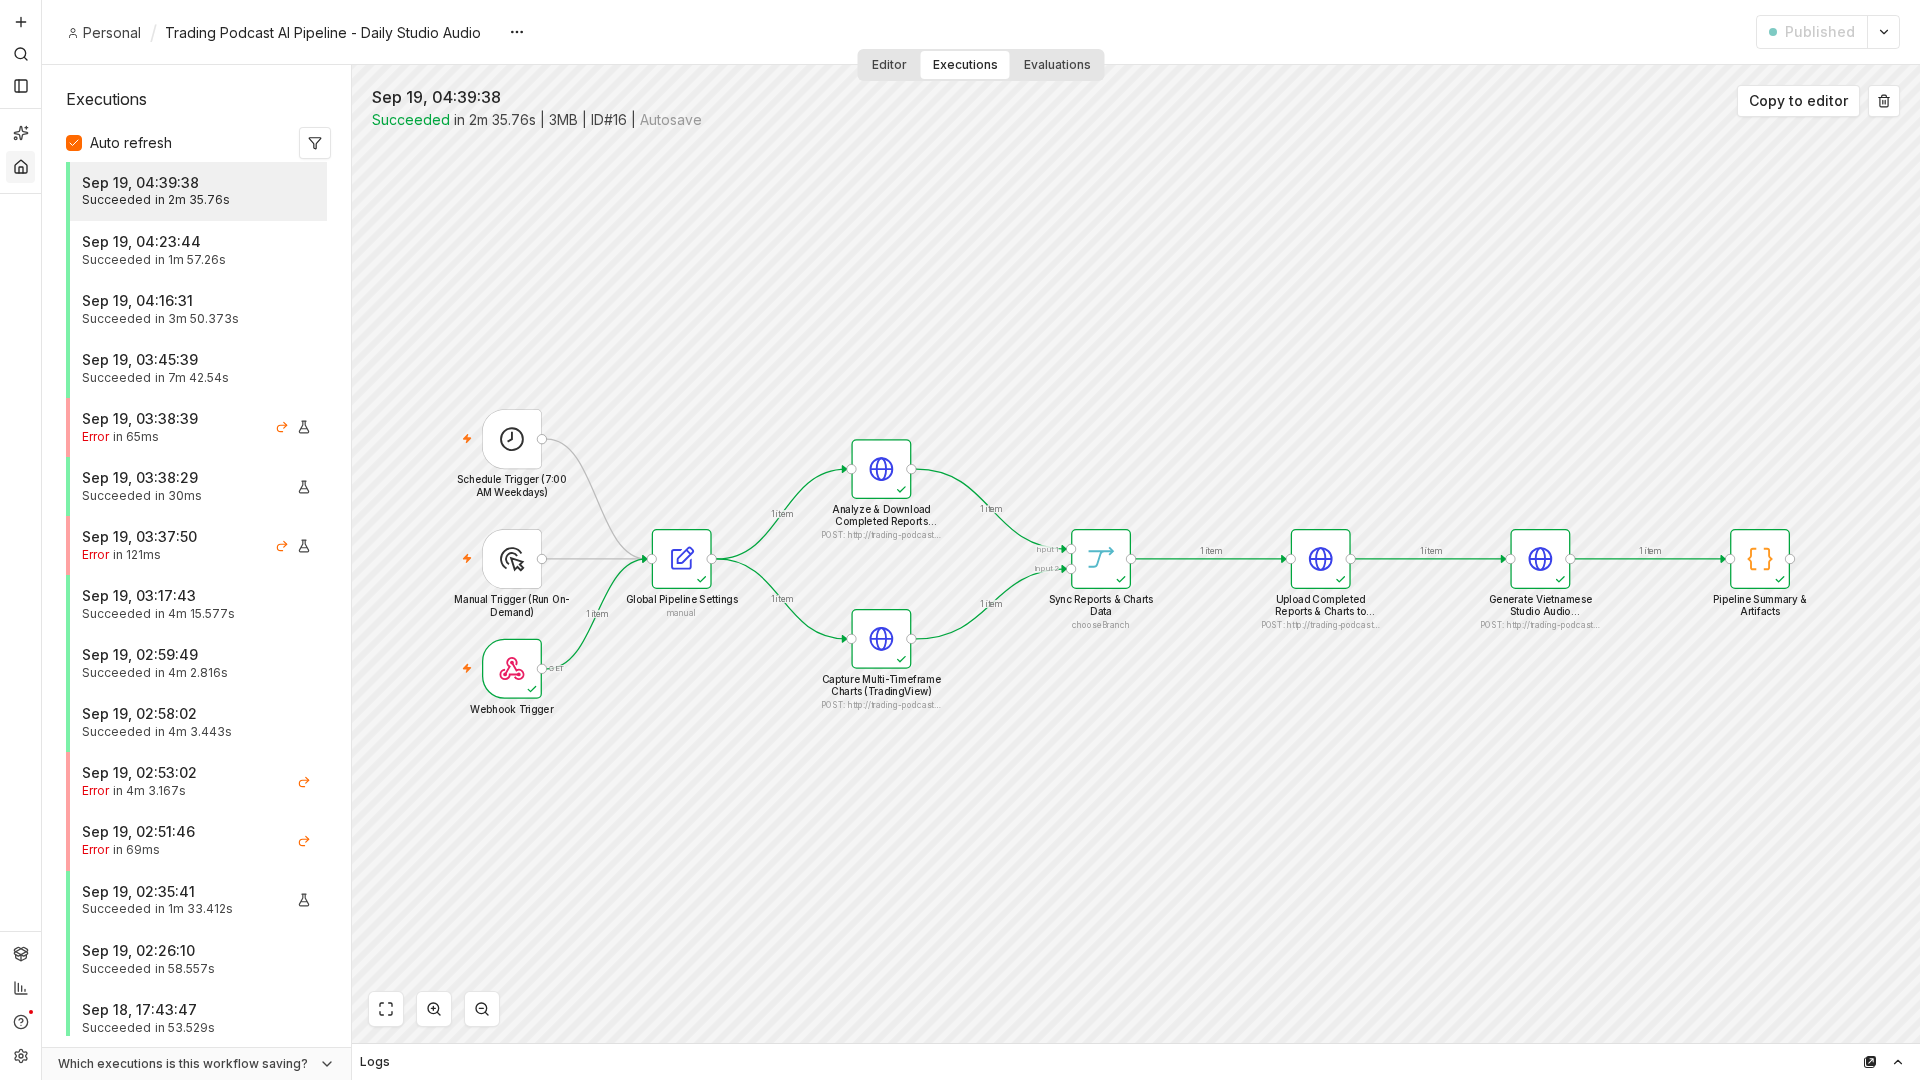
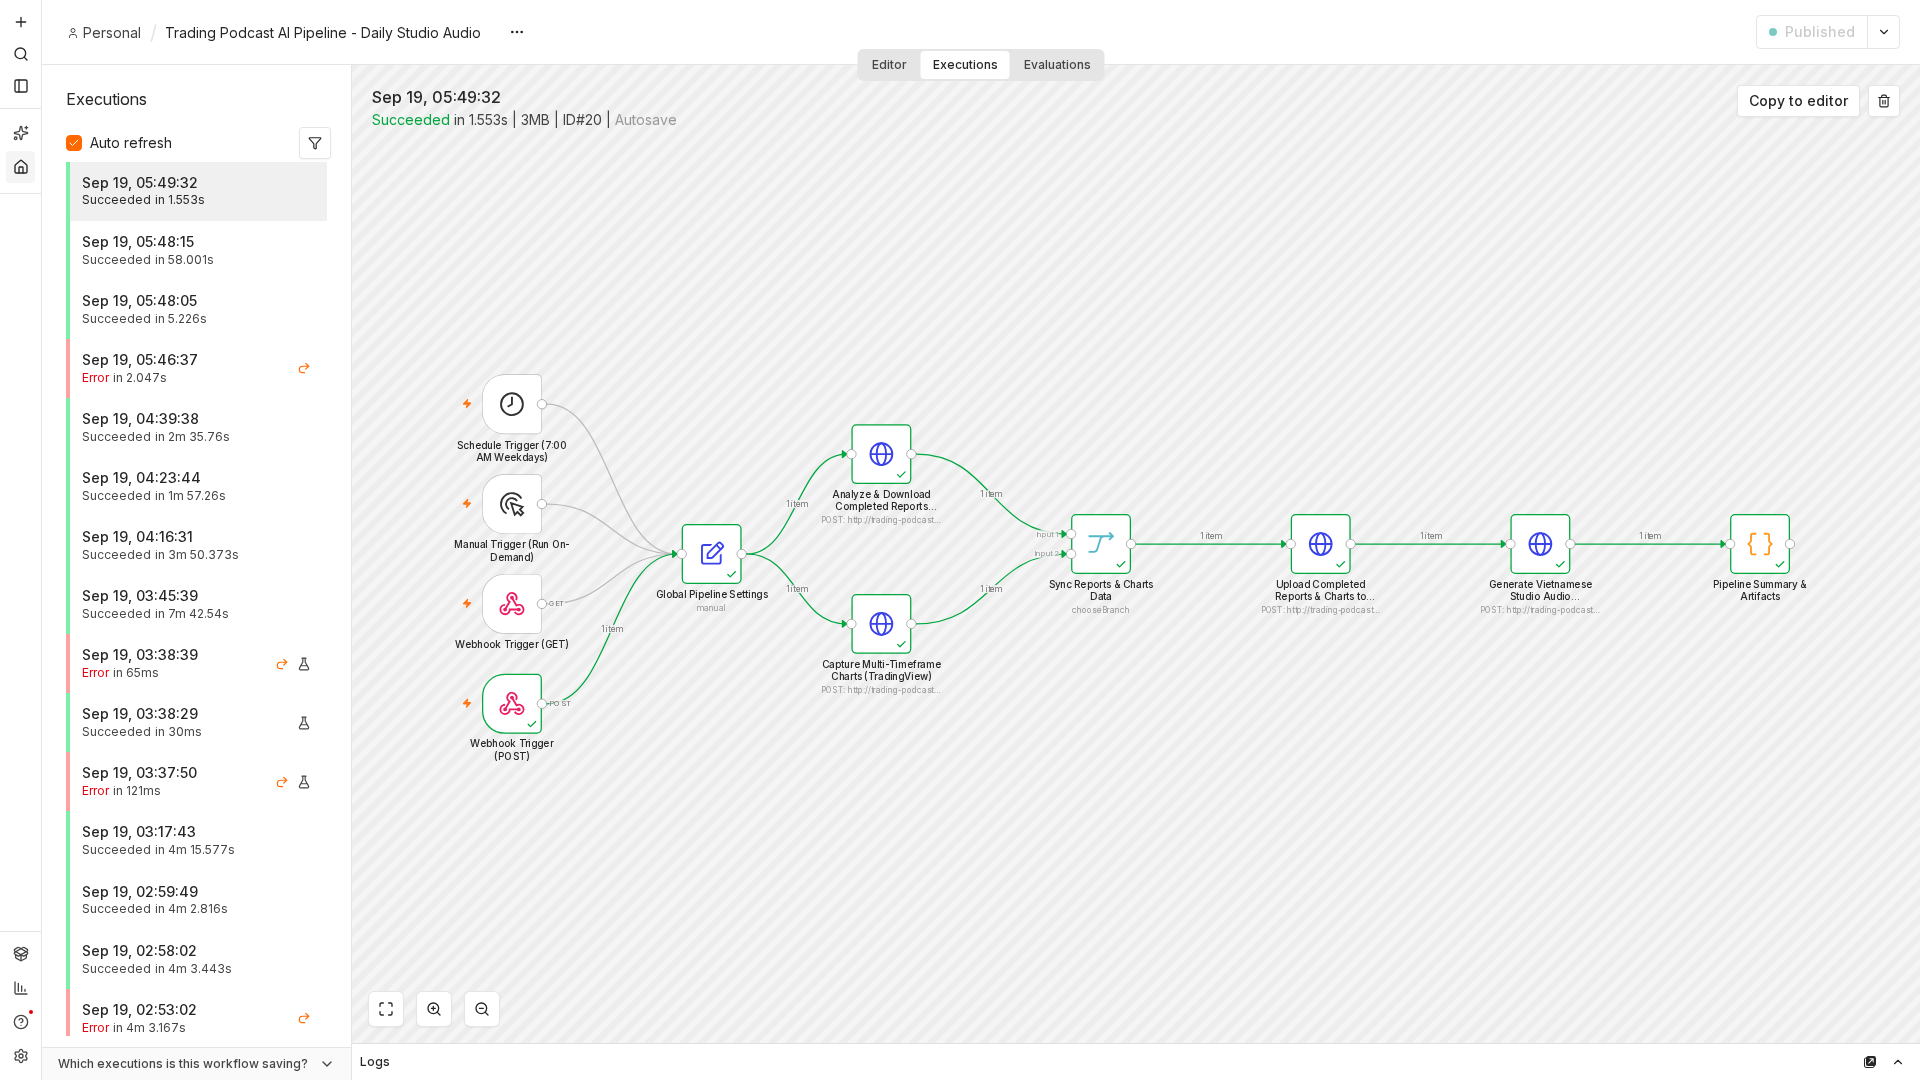
feat(n8n): support remote webhook parameters for force_reanalyze and force_recapture
- Add dual Webhook Triggers (GET & POST) supporting query strings and JSON bodies
- Dynamically parse force_reanalyze and force_recapture_charts with safe default false
- Support parameter aliases (force_analysis, force_capture, reanalyze, recapture)
- Make NotebookLM client resilient against expired Google session cookies
- Update workflow canvas and execution verification screenshots
- Document remote curl webhook triggers and parameters in README.md

diff --git a/n8n/build_workflow.py b/n8n/build_workflow.py
@@ -80,7 +80,7 @@ workflow = {
             "name": "Schedule Trigger (7:00 AM Weekdays)",
             "type": "n8n-nodes-base.scheduleTrigger",
             "typeVersion": 1.2,
-            "position": [200, 240]
+            "position": [200, 200]
         },
         {
             "parameters": {},
@@ -88,7 +88,7 @@ workflow = {
             "name": "Manual Trigger (Run On-Demand)",
             "type": "n8n-nodes-base.manualTrigger",
             "typeVersion": 1,
-            "position": [200, 420]
+            "position": [200, 360]
         },
         {
             "parameters": {
@@ -97,12 +97,26 @@ workflow = {
                 "responseMode": "lastNode",
                 "options": {}
             },
-            "id": "webhook-trigger-1",
-            "name": "Webhook Trigger",
+            "id": "webhook-trigger-get",
+            "name": "Webhook Trigger (GET)",
             "type": "n8n-nodes-base.webhook",
             "typeVersion": 2,
-            "position": [200, 600],
+            "position": [200, 520],
             "webhookId": "run-trading-podcast"
+        },
+        {
+            "parameters": {
+                "httpMethod": "POST",
+                "path": "run-trading-podcast",
+                "responseMode": "lastNode",
+                "options": {}
+            },
+            "id": "webhook-trigger-post",
+            "name": "Webhook Trigger (POST)",
+            "type": "n8n-nodes-base.webhook",
+            "typeVersion": 2,
+            "position": [200, 680],
+            "webhookId": "run-trading-podcast-post"
         },
         {
             "parameters": {
@@ -111,67 +125,67 @@ workflow = {
                         {
                             "id": "setting-force-reanalyze",
                             "name": "force_reanalyze",
-                            "value": False,
+                            "value": "={{ [ $json?.body?.force_reanalyze, $json?.body?.force_analysis, $json?.body?.forceReanalyze, $json?.body?.reanalyze, $json?.query?.force_reanalyze, $json?.query?.force_analysis, $json?.query?.forceReanalyze, $json?.query?.reanalyze ].some(v => v === true || v === 'true' || v === 1 || v === '1') }}",
                             "type": "boolean"
                         },
                         {
                             "id": "setting-force-recapture",
                             "name": "force_recapture_charts",
-                            "value": False,
+                            "value": "={{ [ $json?.body?.force_recapture_charts, $json?.body?.force_recapture, $json?.body?.force_capture, $json?.body?.forceRecapture, $json?.body?.forceCapture, $json?.body?.recapture, $json?.query?.force_recapture_charts, $json?.query?.force_recapture, $json?.query?.force_capture, $json?.query?.forceRecapture, $json?.query?.forceCapture, $json?.query?.recapture ].some(v => v === true || v === 'true' || v === 1 || v === '1') }}",
                             "type": "boolean"
                         },
                         {
                             "id": "setting-provider",
                             "name": "llm_provider",
-                            "value": "openai_compatible",
+                            "value": "={{ $json?.body?.llm_provider || $json?.query?.llm_provider || 'openai_compatible' }}",
                             "type": "string"
                         },
                         {
                             "id": "setting-deep-think",
                             "name": "deep_think_llm",
-                            "value": "ag/gemini-3.8-flash-high",
+                            "value": "={{ $json?.body?.deep_think_llm || $json?.query?.deep_think_llm || 'ag/gemini-3.8-flash-high' }}",
                             "type": "string"
                         },
                         {
                             "id": "setting-quick-think",
                             "name": "quick_think_llm",
-                            "value": "ag/gemini-3.8-flash-high",
+                            "value": "={{ $json?.body?.quick_think_llm || $json?.query?.quick_think_llm || 'ag/gemini-3.8-flash-high' }}",
                             "type": "string"
                         },
                         {
                             "id": "setting-debate-rounds",
                             "name": "max_debate_rounds",
-                            "value": 3,
+                            "value": "={{ $json?.body?.max_debate_rounds ? Number($json.body.max_debate_rounds) : ($json?.query?.max_debate_rounds ? Number($json.query.max_debate_rounds) : 3) }}",
                             "type": "number"
                         },
                         {
                             "id": "setting-risk-rounds",
                             "name": "max_risk_discuss_rounds",
-                            "value": 3,
+                            "value": "={{ $json?.body?.max_risk_discuss_rounds ? Number($json.body.max_risk_discuss_rounds) : ($json?.query?.max_risk_discuss_rounds ? Number($json.query.max_risk_discuss_rounds) : 3) }}",
                             "type": "number"
                         },
                         {
                             "id": "setting-language",
                             "name": "output_language",
-                            "value": "Vietnamese",
+                            "value": "={{ $json?.body?.output_language || $json?.query?.output_language || 'Vietnamese' }}",
                             "type": "string"
                         },
                         {
                             "id": "setting-tickers",
                             "name": "tickers",
-                            "value": '={{ ["XAUUSD", "SPY", "BTC-USD", "XAGUSD", "^TNX", "DX-Y.NYB"] }}',
+                            "value": '={{ $json?.body?.tickers || ($json?.query?.tickers ? (typeof $json.query.tickers === "string" ? $json.query.tickers.split(",").map(s => s.trim()) : $json.query.tickers) : ["XAUUSD", "SPY", "BTC-USD", "XAGUSD", "^TNX", "DX-Y.NYB"]) }}',
                             "type": "array"
                         },
                         {
                             "id": "setting-chart-symbols",
                             "name": "chart_symbols",
-                            "value": '={{ ["XAUUSD", "XAGUSD"] }}',
+                            "value": '={{ $json?.body?.chart_symbols || ($json?.query?.chart_symbols ? (typeof $json.query.chart_symbols === "string" ? $json.query.chart_symbols.split(",").map(s => s.trim()) : $json.query.chart_symbols) : ["XAUUSD", "XAGUSD"]) }}',
                             "type": "array"
                         },
                         {
                             "id": "setting-chart-intervals",
                             "name": "chart_intervals",
-                            "value": '={{ ["5", "15", "60", "240", "D", "W"] }}',
+                            "value": '={{ $json?.body?.chart_intervals || ($json?.query?.chart_intervals ? (typeof $json.query.chart_intervals === "string" ? $json.query.chart_intervals.split(",").map(s => s.trim()) : $json.query.chart_intervals) : ["5", "15", "60", "240", "D", "W"]) }}',
                             "type": "array"
                         },
                         {
@@ -188,7 +202,7 @@ workflow = {
             "name": "Global Pipeline Settings",
             "type": "n8n-nodes-base.set",
             "typeVersion": 3.4,
-            "position": [480, 420]
+            "position": [520, 440]
         },
         {
             "parameters": {
@@ -304,7 +318,18 @@ workflow = {
                 ]
             ]
         },
-        "Webhook Trigger": {
+        "Webhook Trigger (GET)": {
+            "main": [
+                [
+                    {
+                        "node": "Global Pipeline Settings",
+                        "type": "main",
+                        "index": 0
+                    }
+                ]
+            ]
+        },
+        "Webhook Trigger (POST)": {
             "main": [
                 [
                     {

diff --git a/bridge/notebooklm_client.py b/bridge/notebooklm_client.py
@@ -98,16 +98,47 @@ class NotebookLMClient:
                 ["notebooklm", "create", title, "--json"],
                 capture_output=True,
                 text=True,
-                check=True,
+                check=False,
             )
-            create_data = json.loads(create_res.stdout)
+            if create_res.returncode != 0:
+                err_msg = (create_res.stderr or create_res.stdout or "").strip()
+                logger.warning(f"NotebookLM create failed (exit {create_res.returncode}): {err_msg}")
+                return {
+                    "status": "auth_expired",
+                    "notebook_id": "auth_required",
+                    "notebook_title": title,
+                    "notebook_url": "https://notebooklm.google.com",
+                    "sources_count": 0,
+                    "report_sources_count": len(report_md_paths),
+                    "chart_sources_count": len(chart_image_paths),
+                    "sources": [],
+                    "message": "Google NotebookLM session expired or invalid. Please update storage_state.json with fresh cookies.",
+                    "error_detail": err_msg,
+                }
+            try:
+                create_data = json.loads(create_res.stdout) if create_res.stdout else {}
+            except Exception as e:
+                logger.warning(f"Failed parsing create json: {e}")
+                create_data = {}
+
             target_nid = (
                 create_data.get("notebook", {}).get("id")
                 or create_data.get("id")
                 or create_data.get("notebook_id")
             )
             if not target_nid:
-                raise RuntimeError(f"Failed to extract notebook ID from: {create_res.stdout}")
+                logger.warning(f"Could not extract notebook ID from: {create_res.stdout}")
+                return {
+                    "status": "auth_expired",
+                    "notebook_id": "auth_required",
+                    "notebook_title": title,
+                    "notebook_url": "https://notebooklm.google.com",
+                    "sources_count": 0,
+                    "report_sources_count": len(report_md_paths),
+                    "chart_sources_count": len(chart_image_paths),
+                    "sources": [],
+                    "message": "Failed to create notebook on NotebookLM. Please check storage_state.json",
+                }
             logger.info(f"Successfully created Notebook ID: {target_nid}")
 
         uploaded_sources = []
@@ -202,10 +233,12 @@ class NotebookLMClient:
         final_audio_path = out_dir / f"trading_podcast_{date_str}.mp3"
 
         has_auth = self.is_authenticated()
+        target_nid = notebook_id
+        if target_nid in ("auth_required", "offline_ready"):
+            has_auth = False
 
         if has_auth and shutil.which("notebooklm"):
             try:
-                target_nid = notebook_id
                 if not target_nid and briefing_md_path:
                     upload_res = await self.upload_sources_to_notebooklm(
                         briefing_md_path=briefing_md_path,

diff --git a/README.md b/README.md
@@ -103,13 +103,47 @@ Kết quả trả về hợp lệ:
   - Thiết lập tài khoản admin ban đầu khi mở n8n hoặc cấu hình qua biến môi trường `N8N_ADMIN_EMAIL` và `N8N_ADMIN_PASSWORD` trong file `.env`.
 * Workflow **`Trading Podcast AI Pipeline - Daily Studio Audio`** đã được cấu hình sẵn và kích hoạt (Active / Published).
 
-### 5. Kích hoạt Thực thi (Execution Triggers)
-* **Kích hoạt tự động:** Tự động chạy vào lúc **07:00 AM các ngày làm việc (Thứ 2 - Thứ 6)**.
-* **Kích hoạt tức thì qua Webhook URL:**
+### 5. Kích hoạt Thực thi & Tùy biến Tham số Từ Xa (Remote Webhook Parameters)
+Hệ thống hỗ trợ kích hoạt linh hoạt qua cả **GET (Query Parameters)** và **POST (JSON Body)**. Mặc định mọi cờ ép chạy lại đều là `false` để tận dụng bộ nhớ đệm tốc độ cao (0.5s), nhưng bạn có thể truyền tham số để ghi đè từ xa mà không cần truy cập vào giao diện n8n:
+
+* **Kích hoạt mặc định (Dùng cache nếu đã phân tích trong ngày):**
   ```bash
   curl -s http://localhost:5678/webhook/run-trading-podcast
   ```
-* **Kích hoạt thủ công:** Nhấn nút **Execute workflow** trên giao diện Canvas n8n.
+
+* **Ép chụp lại mới toàn bộ 12 khung biểu đồ nến kỹ thuật (`force_recapture=true`):**
+  ```bash
+  # Qua GET query string:
+  curl -s "http://localhost:5678/webhook/run-trading-podcast?force_recapture=true"
+
+  # Hoặc qua POST JSON body:
+  curl -s -X POST "http://localhost:5678/webhook/run-trading-podcast" \
+    -H "Content-Type: application/json" \
+    -d '{"force_recapture": true}'
+  ```
+
+* **Ép AI TradingAgents phân tích lại phiên mới (`force_reanalyze=true`):**
+  ```bash
+  curl -s "http://localhost:5678/webhook/run-trading-podcast?force_reanalyze=true"
+  ```
+
+* **Ép làm mới toàn diện cả Báo cáo Phân tích và Biểu đồ nến:**
+  ```bash
+  curl -s -X POST "http://localhost:5678/webhook/run-trading-podcast" \
+    -H "Content-Type: application/json" \
+    -d '{"force_reanalyze": true, "force_recapture": true}'
+  ```
+
+* **Kiểm thử trên giao diện n8n Test URL (`webhook-test`):**
+  Khi đang mở giao diện n8n và bấm *"Listen for test event"*, bạn có thể kiểm thử bằng đường dẫn:
+  ```bash
+  curl -s "http://localhost:5678/webhook-test/run-trading-podcast?force_recapture=true"
+  ```
+
+* **Bảng bí danh tham số (Aliases hỗ trợ):**
+  - Ép phân tích: `force_reanalyze`, `force_analysis`, `reanalyze`, `forceReanalyze` (chấp nhận `true`, `1`, `"true"`).
+  - Ép chụp nến: `force_recapture_charts`, `force_recapture`, `force_capture`, `recapture` (chấp nhận `true`, `1`, `"true"`).
+  - Tùy chỉnh model từ xa: `llm_provider`, `deep_think_llm`, `quick_think_llm`, `tickers`...
 
 ---
 
